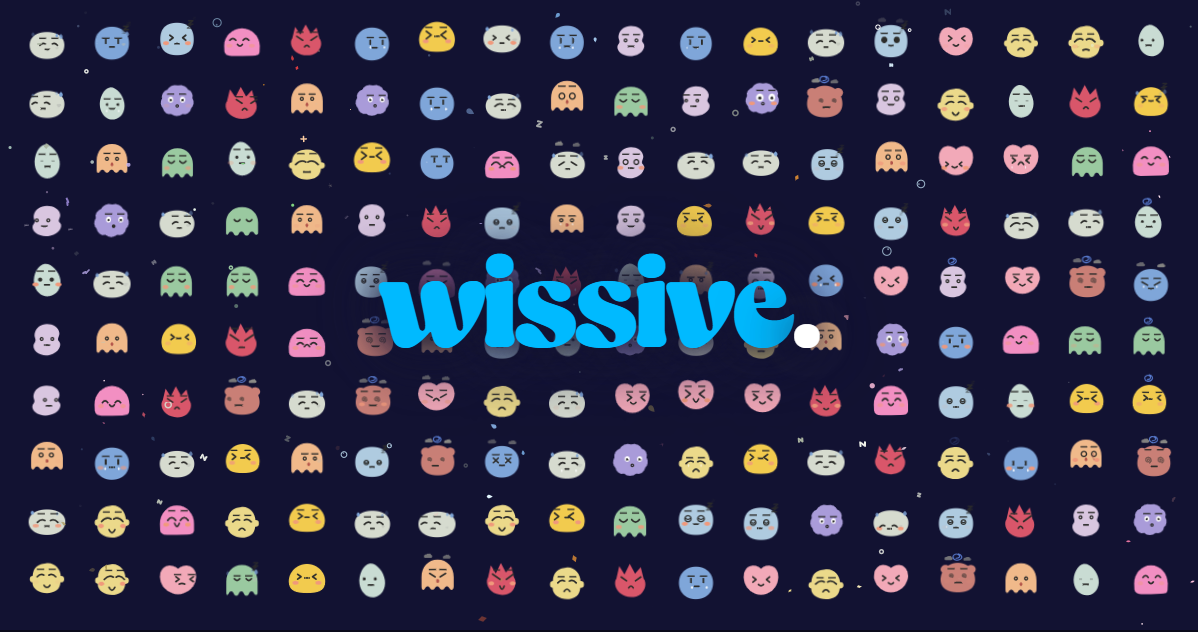
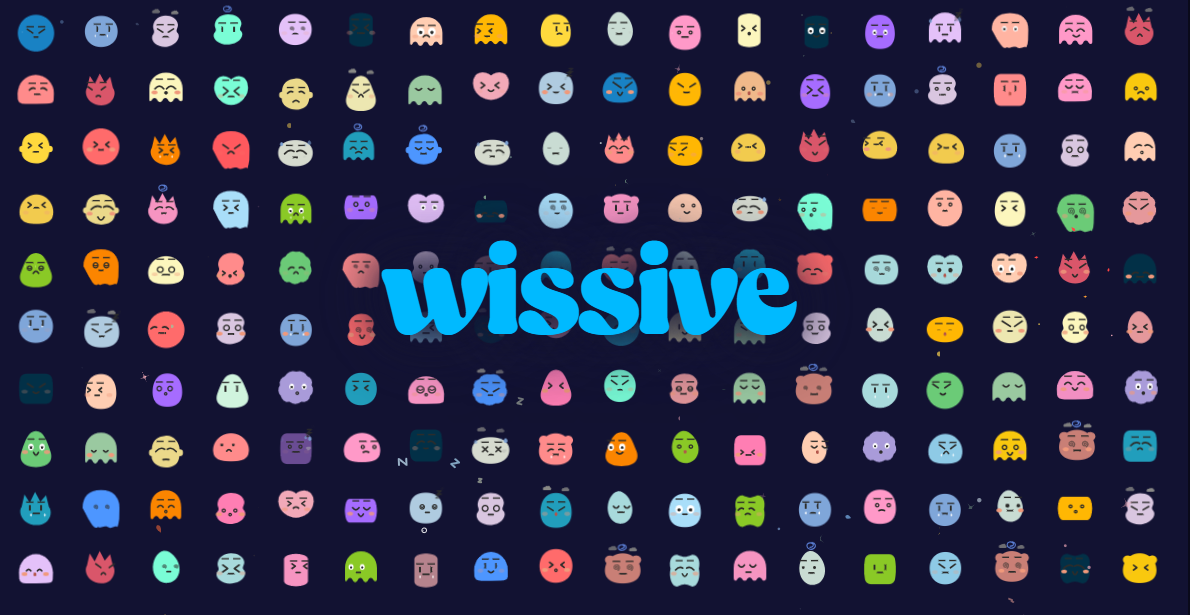
v9.5

Changed region(s): [[0.0, 0.0, 0.995, 0.9577]]

diff --git a/apps/docs/src/scripts/og-generator.ts b/apps/docs/src/scripts/og-generator.ts
@@ -1,9 +1,27 @@
-import { createEmoji } from 'wissive';
+import { createEmoji, createCustomEmoji } from 'wissive';
 
 const EMOJI_NAMES = [
   'mochi', 'zumi', 'suri', 'nima', 'cota', 'dozy', 'lumo',
   'fidge', 'brix', 'wilt', 'knot', 'snug', 'pip', 'void',
 ];
+
+const SHAPES = [
+  'circle', 'heart', 'round-blob', 'capsule', 'rounded-squircle', 'pear-blob',
+  'egg-oval', 'starburst-puff', 'pill-vertical', 'ghost-blob', 'oval',
+  'elongated-oval', 'teardrop-blob', 'flame-blob', 'droopy-blob',
+  'bear-blob', 'spiky-blob', 'cloud-blob', 'wide-oval', 'soft-round',
+  'octopus-blob', 'wave-blob',
+];
+
+const COLORS = [
+  '#FFD93D', '#FF6B6B', '#6BCB77', '#4D96FF', '#FF8B8B', '#A66CFF',
+  '#FF7EB3', '#7AFDD6', '#F9C80E', '#FF595E', '#8AC926', '#1982C4',
+  '#6A4C93', '#FF99C8', '#FCF6BD', '#D0F4DE', '#A9DEF9', '#E4C1F9',
+  '#F694C1', '#EDE7B1', '#A8DADC', '#FFB4A2', '#E5989B', '#B5838D',
+  '#FFCDB2', '#8ECAE6', '#219EBC', '#FB8500', '#FFB703', '#023047',
+];
+
+const pick = <T>(arr: T[]): T => arr[Math.floor(Math.random() * arr.length)];
 
 const COLS = 18;
 const ROWS = 10;
@@ -12,21 +30,56 @@ function initOG(): void {
   const grid = document.getElementById('og-emoji-grid');
   if (!grid) return;
 
-  const total = COLS * ROWS; // 180 emojis
+  const total = COLS * ROWS;
 
+  // Mezclar los 14 emojis base para que no se repitan consecutivamente
+  const shuffled: string[] = [];
   for (let i = 0; i < total; i++) {
-    const name = EMOJI_NAMES[Math.floor(Math.random() * EMOJI_NAMES.length)];
+    shuffled.push(pick(EMOJI_NAMES));
+  }
+
+  // Para cada segundo emoji, usar un custom con diseño único
+  for (let i = 0; i < total; i++) {
     const slot = document.createElement('div');
     slot.className = 'og-slot';
     grid.appendChild(slot);
 
-    createEmoji(name, {
-      target: slot,
-      size: 48,
-      interactive: false,
-      sound: false,
-      autonomousStates: true,
-    });
+    const useCustom = Math.random() > 0.35; // 65% custom, 35% base
+
+    if (useCustom) {
+      const customName = `og-${i}`;
+      const eyeSource = pick(EMOJI_NAMES);
+      const mouthSource = pick(EMOJI_NAMES);
+      // Asegurar que ojos y boca vengan de personajes distintos
+      let mouthFinal = mouthSource;
+      if (mouthFinal === eyeSource) {
+        mouthFinal = pick(EMOJI_NAMES.filter(n => n !== eyeSource));
+      }
+
+      createCustomEmoji(customName, {
+        baseColor: pick(COLORS),
+        silhouette: pick(SHAPES),
+        eyesFrom: eyeSource,
+        mouthFrom: mouthFinal,
+        motionFrom: pick(EMOJI_NAMES),
+      });
+
+      createEmoji(customName, {
+        target: slot,
+        size: 48,
+        interactive: false,
+        sound: false,
+        autonomousStates: true,
+      });
+    } else {
+      createEmoji(shuffled[i], {
+        target: slot,
+        size: 48,
+        interactive: false,
+        sound: false,
+        autonomousStates: true,
+      });
+    }
   }
 }
 
